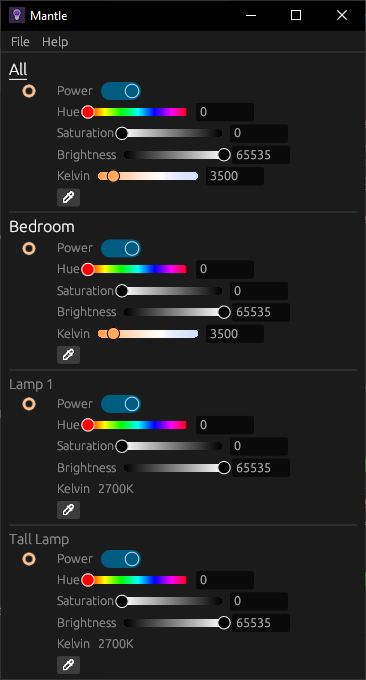
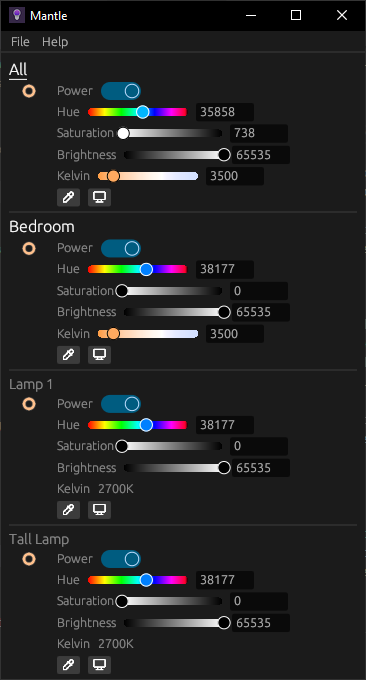
Initial avg screen implementation

diff --git a/src/color.rs b/src/color.rs
@@ -1,19 +1,20 @@
 use eframe::egui::{Color32, Rgba};
 use lifx_core::HSBK;
+use serde::{Deserialize, Serialize};
 
 const DEFAULT_KELVIN: u16 = 3500;
 
 #[derive(Debug, Clone, Copy, PartialEq, Default)]
-pub struct RGB {
+pub struct RGB8 {
     pub red: u8,
     pub green: u8,
     pub blue: u8,
     pub temperature: Option<u16>,
 }
 
-impl RGB {
-    pub fn new(red: u8, green: u8, blue: u8, temperature: Option<u16>) -> RGB {
-        RGB {
+impl RGB8 {
+    pub fn new(red: u8, green: u8, blue: u8, temperature: Option<u16>) -> RGB8 {
+        RGB8 {
             red,
             green,
             blue,
@@ -26,8 +27,8 @@ impl RGB {
     }
 }
 
-impl From<HSBK> for RGB {
-    fn from(hsbk: HSBK) -> RGB {
+impl From<HSBK> for RGB8 {
+    fn from(hsbk: HSBK) -> RGB8 {
         let HSBK {
             hue,
             saturation,
@@ -59,7 +60,7 @@ impl From<HSBK> for RGB {
         let match_value = brightness_ratio - chroma;
         let (red, green, blue) = (red + match_value, green + match_value, blue + match_value);
 
-        let rgb_hsb = RGB {
+        let rgb_hsb = RGB8 {
             red: (red * 255.0) as u8,
             green: (green * 255.0) as u8,
             blue: (blue * 255.0) as u8,
@@ -74,7 +75,7 @@ impl From<HSBK> for RGB {
         let green = (rgb_hsb.green as f64 * (a + rgb_k.green as f64 * b)).round() as u8;
         let blue = (rgb_hsb.blue as f64 * (a + rgb_k.blue as f64 * b)).round() as u8;
 
-        RGB {
+        RGB8 {
             red,
             green,
             blue,
@@ -83,8 +84,8 @@ impl From<HSBK> for RGB {
     }
 }
 
-impl From<RGB> for HSBK {
-    fn from(color: RGB) -> HSBK {
+impl From<RGB8> for HSBK {
+    fn from(color: RGB8) -> HSBK {
         let cmax = *[color.red, color.green, color.blue].iter().max().unwrap() as f32;
         let cmin = *[color.red, color.green, color.blue].iter().min().unwrap() as f32;
         let cdel = cmax - cmin;
@@ -125,13 +126,13 @@ impl From<RGB> for HSBK {
     }
 }
 
-impl From<RGB> for Color32 {
-    fn from(rgb: RGB) -> Color32 {
+impl From<RGB8> for Color32 {
+    fn from(rgb: RGB8) -> Color32 {
         Color32::from_rgb(rgb.red, rgb.green, rgb.blue)
     }
 }
 
-pub fn kelvin_to_rgb(temperature: u16) -> RGB {
+pub fn kelvin_to_rgb(temperature: u16) -> RGB8 {
     let p_temp = temperature / 100;
     let red;
     let green;
@@ -153,7 +154,7 @@ pub fn kelvin_to_rgb(temperature: u16) -> RGB {
         (138.5177312231 * ((p_temp - 10) as f64).ln() - 305.0447927307).clamp(0.0, 255.0)
     };
 
-    RGB {
+    RGB8 {
         red: red as u8,
         green: green as u8,
         blue: blue as u8,
@@ -171,7 +172,7 @@ pub fn default_hsbk() -> HSBK {
 }
 
 // Used for preventing overflow when working with HSBK values
-#[derive(Debug, Clone, Copy, PartialEq, Default)]
+#[derive(Debug, Clone, Copy, PartialEq, Default, Serialize, Deserialize)]
 pub struct HSBK32 {
     pub hue: u32,
     pub saturation: u32,
@@ -201,15 +202,15 @@ impl From<HSBK32> for HSBK {
     }
 }
 
-impl From<RGB> for HSBK32 {
-    fn from(rgb: RGB) -> HSBK32 {
+impl From<RGB8> for HSBK32 {
+    fn from(rgb: RGB8) -> HSBK32 {
         let hsbk: HSBK = rgb.into();
         hsbk.into()
     }
 }
 
-impl From<HSBK32> for RGB {
-    fn from(hsbk: HSBK32) -> RGB {
+impl From<HSBK32> for RGB8 {
+    fn from(hsbk: HSBK32) -> RGB8 {
         let hsbk: HSBK = hsbk.into();
         hsbk.into()
     }
@@ -217,7 +218,7 @@ impl From<HSBK32> for RGB {
 
 impl From<Color32> for HSBK32 {
     fn from(color: Color32) -> HSBK32 {
-        let rgb = RGB {
+        let rgb = RGB8 {
             red: color.r(),
             green: color.g(),
             blue: color.b(),
@@ -231,7 +232,7 @@ impl From<Color32> for HSBK32 {
 
 impl From<HSBK32> for Color32 {
     fn from(hsbk: HSBK32) -> Color32 {
-        let rgb: RGB = hsbk.into();
+        let rgb: RGB8 = hsbk.into();
         rgb.into()
     }
 }

diff --git a/src/main.rs b/src/main.rs
@@ -16,6 +16,7 @@ use log4rs::{
 };
 use mantle::color::{kelvin_to_rgb, HSBK32};
 use mantle::products::TemperatureRange;
+use mantle::screencap::FollowType;
 use mantle::{color_slider, ScreencapManager};
 use serde::{Deserialize, Serialize};
 use std::ops::RangeInclusive;
@@ -41,6 +42,7 @@ const KELVIN_RANGE: TemperatureRange = TemperatureRange {
 const REFRESH_RATE: Duration = Duration::from_secs(10);
 const ICON: &[u8; 1751] = include_bytes!("../res/logo32.png");
 const EYEDROPPER_ICON: &[u8; 238] = include_bytes!("../res/icons/color-picker.png");
+const MONITOR_ICON: &[u8; 204] = include_bytes!("../res/icons/device-desktop.png");
 
 fn main() -> eframe::Result {
     let logfile = FileAppender::builder()
@@ -103,6 +105,7 @@ struct MantleApp {
     mgr: Manager,
     show_about: bool,
     show_eyedropper: bool,
+    waveform_map: HashMap<u64, bool>,
 }
 
 impl Default for MantleApp {
@@ -112,6 +115,7 @@ impl Default for MantleApp {
             mgr,
             show_about: false,
             show_eyedropper: false,
+            waveform_map: HashMap::new(),
         }
     }
 }
@@ -199,7 +203,10 @@ impl MantleApp {
                 if let Some(before_color) = color {
                     let mut after_color =
                         self.display_color_controls(ui, device, color.unwrap_or(default_hsbk()));
-                    after_color = handle_eyedropper(self, ui).unwrap_or(after_color);
+                    ui.horizontal(|ui| {
+                        after_color = handle_eyedropper(self, ui).unwrap_or(after_color);
+                        after_color = handle_screencap(self, ui, device).unwrap_or(after_color);
+                    });
                     if before_color != after_color {
                         match device {
                             DeviceInfo::Bulb(bulb) => {
@@ -355,13 +362,11 @@ impl MantleApp {
 
 fn handle_eyedropper(app: &mut MantleApp, ui: &mut Ui) -> Option<HSBK> {
     let mut color: Option<HSBK> = None;
-    // if ui.add(egui::Button::new("Eyedropper")).clicked() {
-    //     app.show_eyedropper = !app.show_eyedropper;
-    // }
     if ui
         .add(
             egui::Button::image(
-                egui::Image::from_bytes("", EYEDROPPER_ICON).fit_to_exact_size(Vec2::new(15., 15.)),
+                egui::Image::from_bytes("eyedropper", EYEDROPPER_ICON)
+                    .fit_to_exact_size(Vec2::new(15., 15.)),
             )
             .sense(egui::Sense::click()),
         )
@@ -381,6 +386,37 @@ fn handle_eyedropper(app: &mut MantleApp, ui: &mut Ui) -> Option<HSBK> {
             color = Some(screencap.from_click(position.0, position.1));
             app.show_eyedropper = false;
         }
+    }
+    color
+}
+
+fn handle_screencap(app: &mut MantleApp, ui: &mut Ui, device: &DeviceInfo) -> Option<HSBK> {
+    let mut color: Option<HSBK> = None;
+    if ui
+        .add(
+            egui::Button::image(
+                egui::Image::from_bytes("monitor", MONITOR_ICON)
+                    .fit_to_exact_size(Vec2::new(15., 15.)),
+            )
+            .sense(egui::Sense::click()),
+        )
+        .clicked()
+    {
+        let waveform = app
+            .waveform_map
+            .get(&device.id())
+            .cloned()
+            .unwrap_or_default();
+        app.waveform_map.insert(device.id(), !waveform);
+    }
+    if app
+        .waveform_map
+        .get(&device.id())
+        .cloned()
+        .unwrap_or_default()
+    {
+        let screencap = ScreencapManager::new().unwrap();
+        color = Some(screencap.avg_color(FollowType::All)); // using all for testing
     }
     color
 }

diff --git a/src/screencap.rs b/src/screencap.rs
@@ -1,7 +1,14 @@
 use lifx_core::HSBK;
 use xcap::{Monitor, Window, XCapError};
 
-use crate::RGB;
+use crate::RGB8;
+
+pub enum FollowType {
+    // either monitor, window, or All
+    Monitor(Vec<Monitor>),
+    Window(Vec<Window>),
+    All,
+}
 
 pub struct ScreencapManager {
     pub monitors: Vec<Monitor>,
@@ -45,7 +52,7 @@ impl ScreencapManager {
             .capture_image()
             .unwrap()
             .get_pixel(new_x as u32, new_y as u32);
-        RGB {
+        RGB8 {
             red: rgba[0],
             green: rgba[1],
             blue: rgba[2],
@@ -69,5 +76,63 @@ impl ScreencapManager {
             eframe::egui::Pos2::new(x_min as f32, y_min as f32),
             eframe::egui::Pos2::new(x_max as f32, y_max as f32),
         )
+    }
+
+    pub fn avg_color(&self, follow: FollowType) -> HSBK {
+        let mut red: u32 = 0;
+        let mut green: u32 = 0;
+        let mut blue: u32 = 0;
+        let mut count: u32 = 0;
+        match follow {
+            FollowType::Monitor(monitors) => {
+                for monitor in monitors {
+                    let image = monitor.capture_image().unwrap();
+                    for x in 0..monitor.width() {
+                        for y in 0..monitor.height() {
+                            let rgba = *image.get_pixel(x, y);
+                            red += rgba[0] as u32;
+                            green += rgba[1] as u32;
+                            blue += rgba[2] as u32;
+                            count += 1;
+                        }
+                    }
+                }
+            }
+            FollowType::Window(windows) => {
+                for window in windows {
+                    let image = window.capture_image().unwrap();
+                    for x in 0..window.width() {
+                        for y in 0..window.height() {
+                            let rgba = *image.get_pixel(x, y);
+                            red += rgba[0] as u32;
+                            green += rgba[1] as u32;
+                            blue += rgba[2] as u32;
+                            count += 1;
+                        }
+                    }
+                }
+            }
+            FollowType::All => {
+                for monitor in &self.monitors {
+                    let image = monitor.capture_image().unwrap();
+                    for x in 0..monitor.width() {
+                        for y in 0..monitor.height() {
+                            let rgba = *image.get_pixel(x, y);
+                            red += rgba[0] as u32;
+                            green += rgba[1] as u32;
+                            blue += rgba[2] as u32;
+                            count += 1;
+                        }
+                    }
+                }
+            }
+        }
+        RGB8 {
+            red: (red / count) as u8,
+            green: (green / count) as u8,
+            blue: (blue / count) as u8,
+            temperature: None,
+        }
+        .into()
     }
 }

diff --git a/src/widgets.rs b/src/widgets.rs
@@ -9,7 +9,7 @@ use eframe::{
 };
 use lifx_core::HSBK;
 
-use crate::{contrast_color, device_info::DeviceInfo, AngleIter, BulbInfo, Manager, RGB};
+use crate::{contrast_color, device_info::DeviceInfo, AngleIter, BulbInfo, Manager, RGB8};
 
 pub fn display_color_circle(
     ui: &mut Ui,
@@ -25,7 +25,7 @@ pub fn display_color_circle(
     };
     let desired_size = ui.spacing().interact_size * desired_size;
     // Arc code from https://vcs.cozydsp.space/cozy-dsp/cozy-ui/src/commit/d4706ec9f4592137307ce8acafb56b881ea54e35/src/util.rs#L49
-    let rgb = RGB::from(color);
+    let rgb = RGB8::from(color);
     let (response, painter) = ui.allocate_painter(desired_size, Sense::hover());
     let center = response.rect.center();
     let radius = response.rect.width() / scale;

diff --git a/src/device_info.rs b/src/device_info.rs
@@ -37,6 +37,15 @@ pub enum DeviceInfo<'a> {
     Group(GroupInfo),
 }
 
+impl DeviceInfo<'_> {
+    pub fn id(&self) -> u64 {
+        match self {
+            DeviceInfo::Bulb(b) => b.target,
+            DeviceInfo::Group(g) => u64::from_le_bytes(g.group.0[0..8].try_into().unwrap()),
+        }
+    }
+}
+
 #[derive(Debug)]
 pub enum DeviceColor {
     Unknown,

diff --git a/src/lib.rs b/src/lib.rs
@@ -7,7 +7,7 @@ pub mod refreshable_data;
 pub mod screencap;
 pub mod widgets;
 
-pub use color::{contrast_color, HSBK32, RGB};
+pub use color::{contrast_color, HSBK32, RGB8};
 pub use device_info::{BulbInfo, DeviceColor};
 pub use helpers::{capitalize_first_letter, AngleIter};
 pub use manager::Manager;
